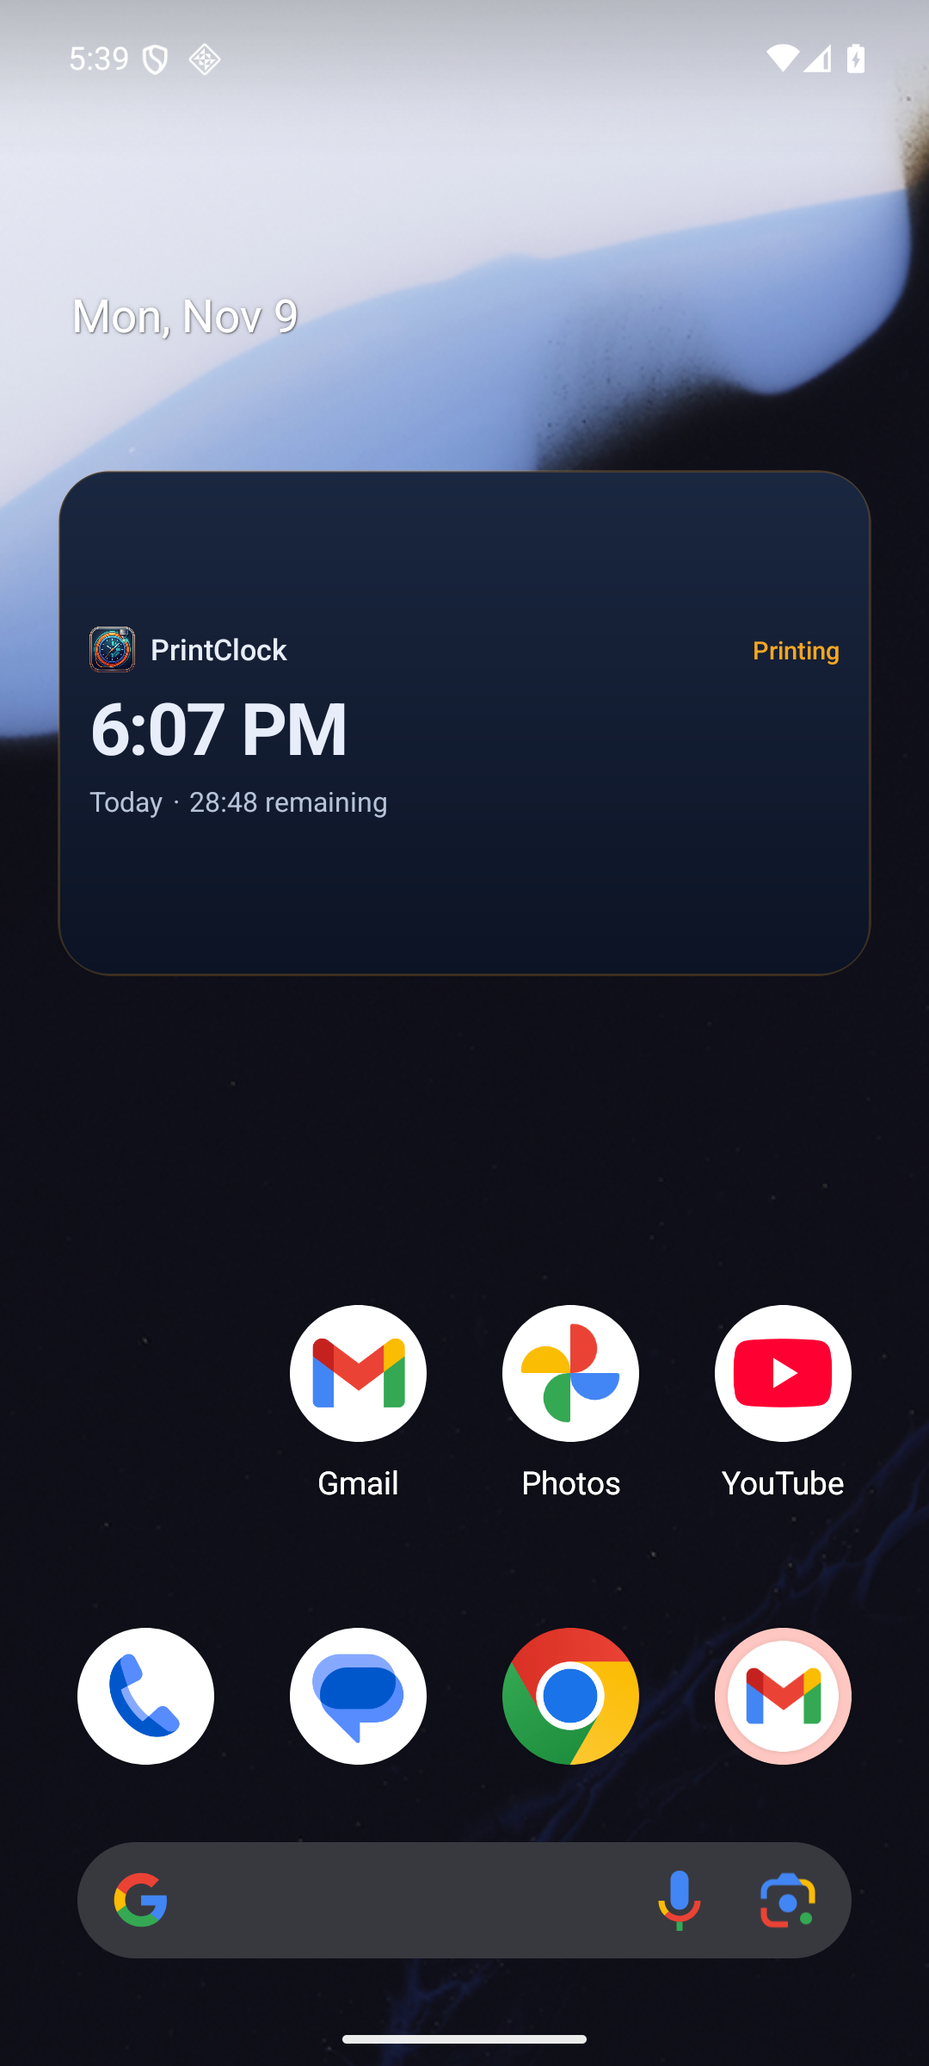
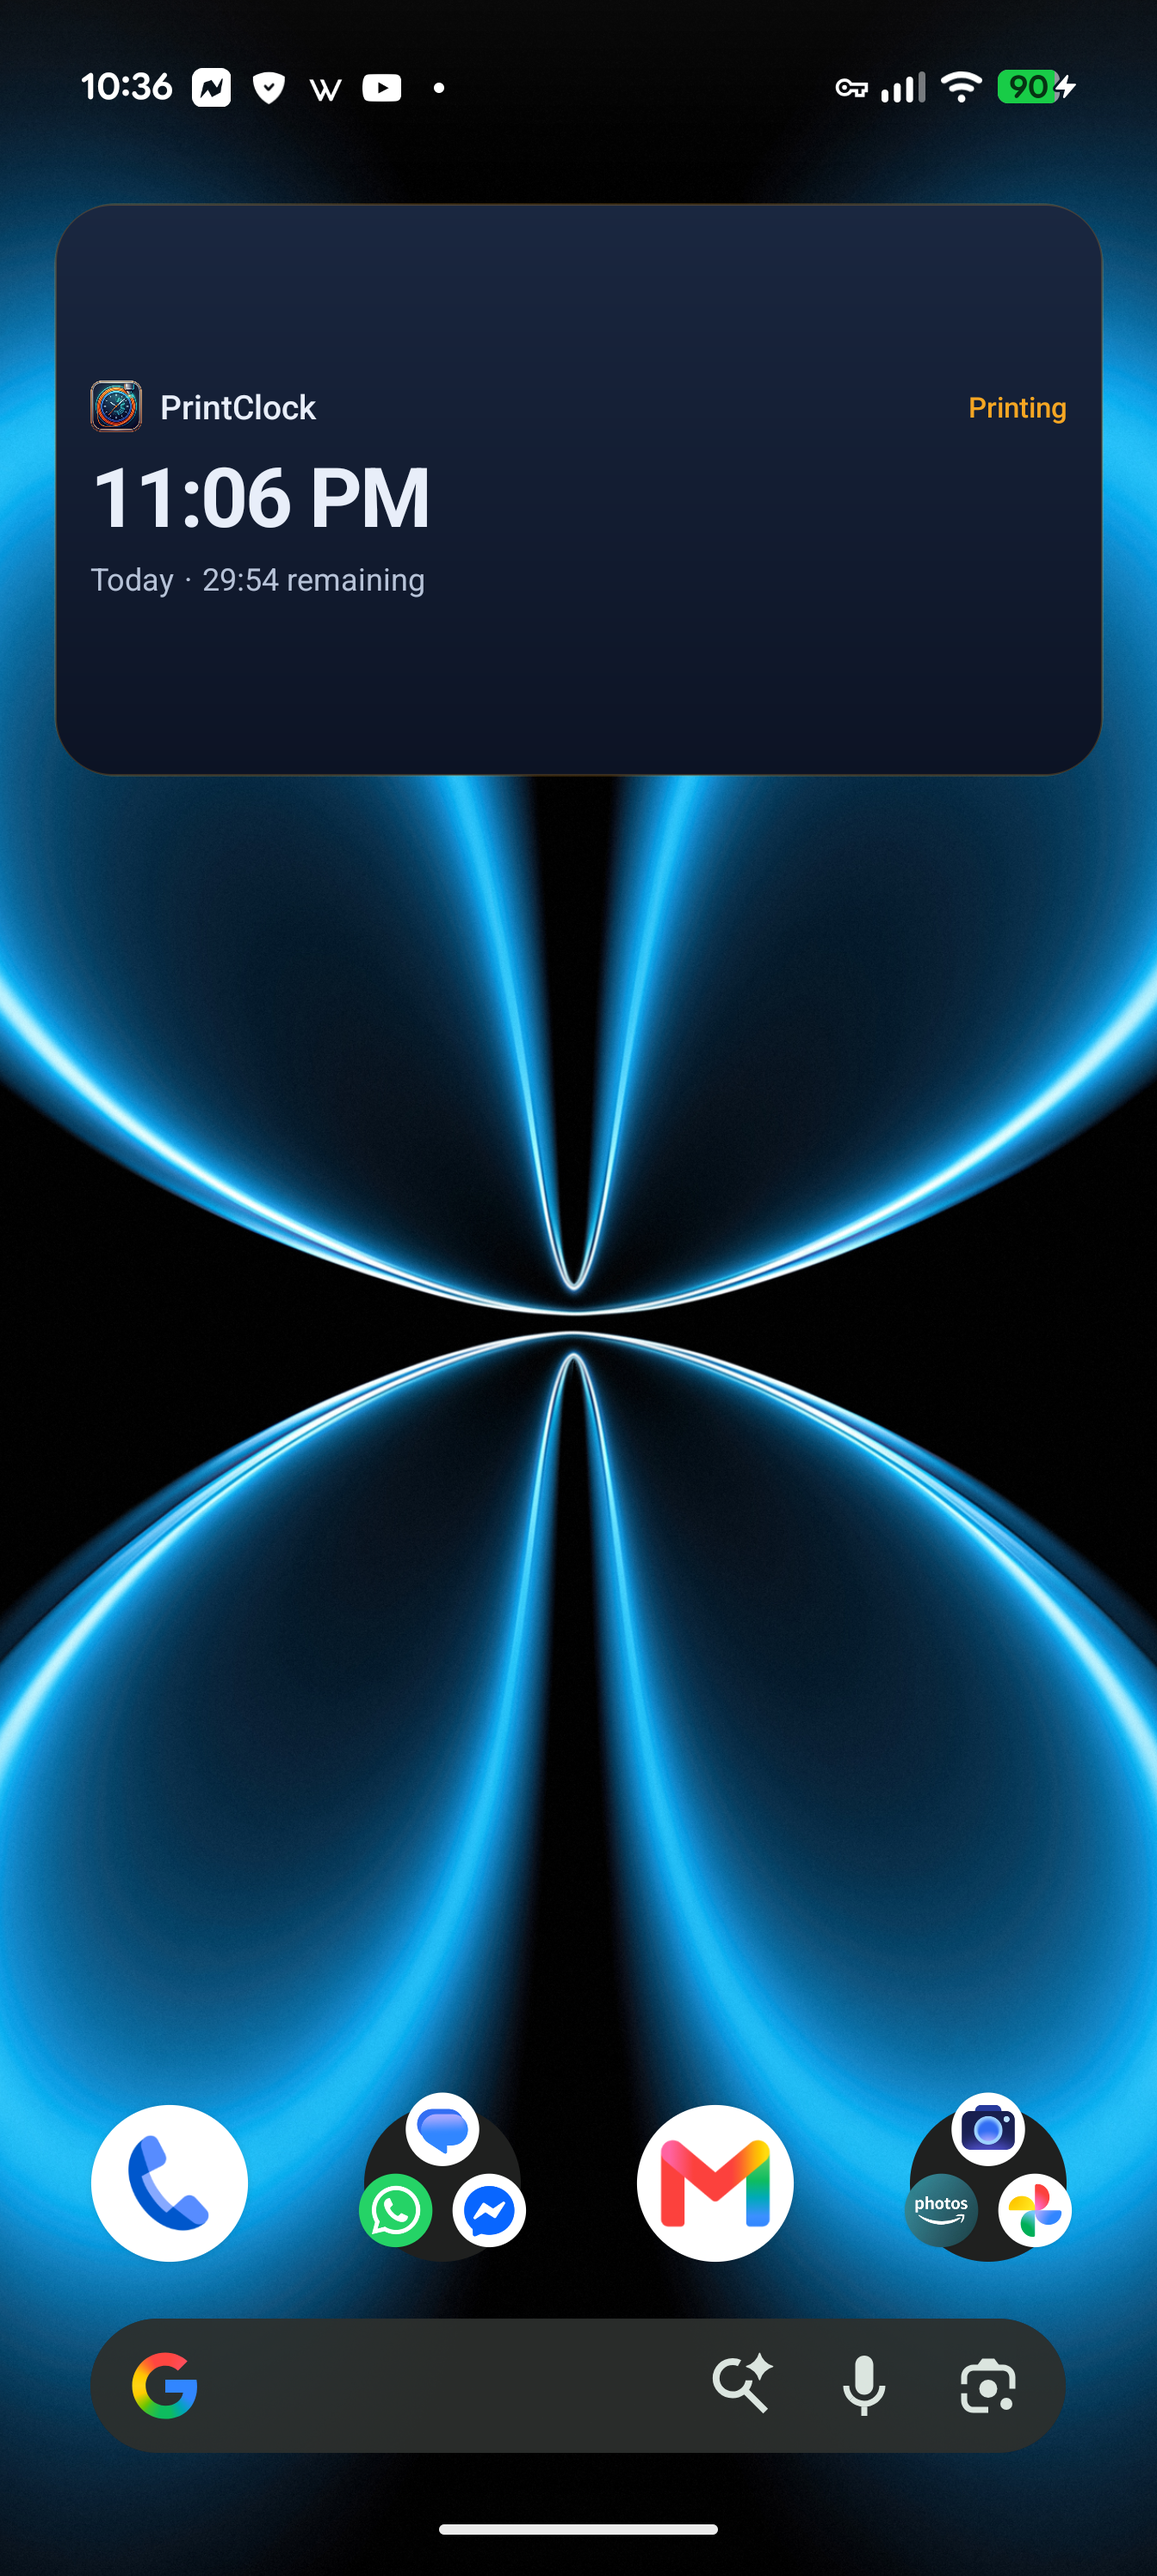
Add Android widget pin button

diff --git a/android/app/src/main/java/com/franktriolo/printclock/PrintClockScreen.kt b/android/app/src/main/java/com/franktriolo/printclock/PrintClockScreen.kt
@@ -3,6 +3,7 @@ package com.franktriolo.printclock
 import android.Manifest
 import android.content.pm.PackageManager
 import android.os.Build
+import android.widget.Toast
 import androidx.activity.compose.rememberLauncherForActivityResult
 import androidx.activity.result.contract.ActivityResultContracts
 import androidx.compose.foundation.background
@@ -124,6 +125,20 @@ fun PrintClockScreen(viewModel: PrintClockViewModel = viewModel()) {
                 color = MaterialTheme.colorScheme.onSurfaceVariant,
                 modifier = Modifier.padding(horizontal = 2.dp)
             )
+            TextButton(
+                onClick = {
+                    if (!PrintWidgetUpdater.requestPin(context)) {
+                        Toast.makeText(
+                            context,
+                            "Widget pinning isn't supported by this launcher.",
+                            Toast.LENGTH_SHORT
+                        ).show()
+                    }
+                },
+                modifier = Modifier.align(Alignment.CenterHorizontally)
+            ) {
+                Text("Add home-screen widget")
+            }
         }
     }
 }

diff --git a/android/app/src/main/java/com/franktriolo/printclock/PrintWidgetUpdater.kt b/android/app/src/main/java/com/franktriolo/printclock/PrintWidgetUpdater.kt
@@ -10,6 +10,14 @@ import android.view.View
 import android.widget.RemoteViews
 
 object PrintWidgetUpdater {
+    fun requestPin(context: Context): Boolean {
+        val manager = AppWidgetManager.getInstance(context)
+        if (!manager.isRequestPinAppWidgetSupported) return false
+
+        val provider = ComponentName(context, PrintClockWidgetProvider::class.java)
+        return manager.requestPinAppWidget(provider, null, null)
+    }
+
     fun update(context: Context) {
         val manager = AppWidgetManager.getInstance(context)
         val ids = manager.getAppWidgetIds(

diff --git a/android/README.md b/android/README.md
@@ -20,7 +20,8 @@ will finish.
 ![PrintClock home-screen widget](../docs/android-widget.png)
 
 Add the widget by long-pressing the home screen, choosing **Widgets**, then
-selecting **PrintClock**.
+selecting **PrintClock**. The app also has an **Add home-screen widget** button
+that uses Android's widget-pin flow.
 
 ## Not here yet
 
